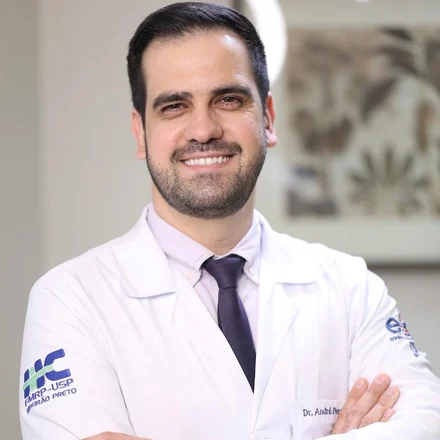
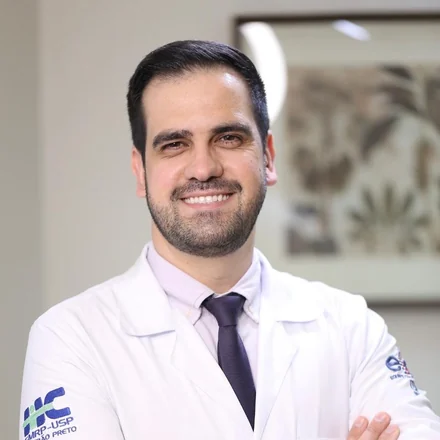
fix: reframe three portraits and correct two doctor entries
The client said André Pereira sat too high in his circle and Henrique
too low. Face detection put numbers on it: their faces were centred at
31.0% and 64.6% of the frame against a 45.2% median across the seven
portraits she had already approved. Both were recut from the full-size
originals to that median, along with the new photo she sent for Janaina.
Henrique now lands at 45.3%; André at 39.7%, as far as his original
allows, since his head sits close to the top edge of the source.

Marcelo Bueno is not the foot and ankle surgeon, so his line reads
"Trauma e tumores musculoesqueléticos" and he leaves the foot filter.
Leaving him in it would have shown his card under a search his own line
no longer mentions.

Alex Pereira's mini CV updated to the text the client sent, keeping the
graduation sentence so his card still opens like every other one.

diff --git a/index.html b/index.html
@@ -207,8 +207,8 @@
           <img class="medico__foto" src="assets/img/equipe/alex.webp" width="140" height="140"
                loading="lazy" alt="Dr. Alex Pereira Alves">
           <h3 class="medico__nome">Dr. Alex Pereira</h3>
-          <p class="medico__area">Coluna vertebral, cirurgia minimamente invasiva e hérnias discais</p>
-          <p class="medico__form">Formado pela UFU em 2008. Especialista em Ortopedia e Traumatologia pelo MEC / Unicamp.</p>
+          <p class="medico__area">Cirurgia minimamente invasiva da coluna vertebral, deformidades e hérnia de disco</p>
+          <p class="medico__form">Formado pela UFU em 2008. Especialização em Cirurgia da Coluna pela Unicamp. Deformidades da Coluna pela AACD/SP e vários cursos internacionais.</p>
           <p class="medico__crm">CRM-MG 47.102 · RQE 46.388</p>
         </article>
 
@@ -266,11 +266,11 @@
           <p class="medico__crm">CRM-MG 40.255 · RQE 49.143</p>
         </article>
 
-        <article class="medico" data-areas="pe tumores">
+        <article class="medico" data-areas="tumores">
           <img class="medico__foto" src="assets/img/equipe/marcelo.webp" width="140" height="140"
                loading="lazy" alt="Dr. Marcelo Bueno Pereira">
           <h3 class="medico__nome">Dr. Marcelo Bueno</h3>
-          <p class="medico__area">Trauma, tornozelo e pé, tumores musculoesqueléticos</p>
+          <p class="medico__area">Trauma e tumores musculoesqueléticos</p>
           <p class="medico__form">Formado pela UFU em 1998. Membro da SBOT, da SBTO e da AOLAT / AOTrauma.</p>
           <p class="medico__crm">CRM-MG 32.868 · RQE 11.736</p>
         </article>
